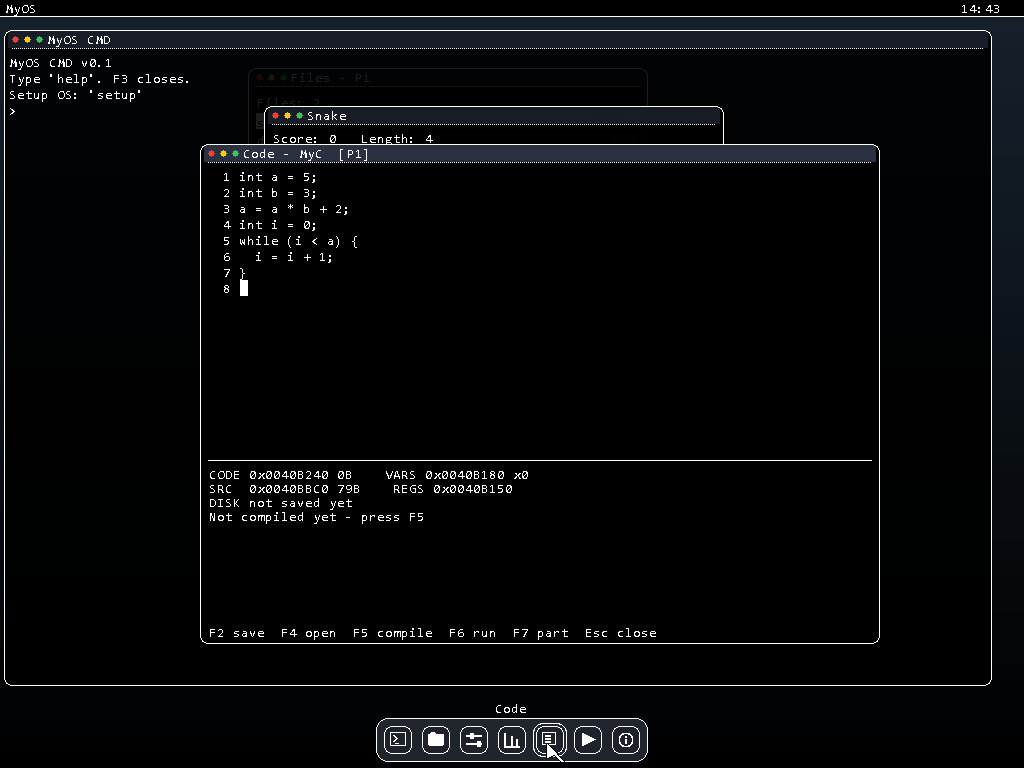
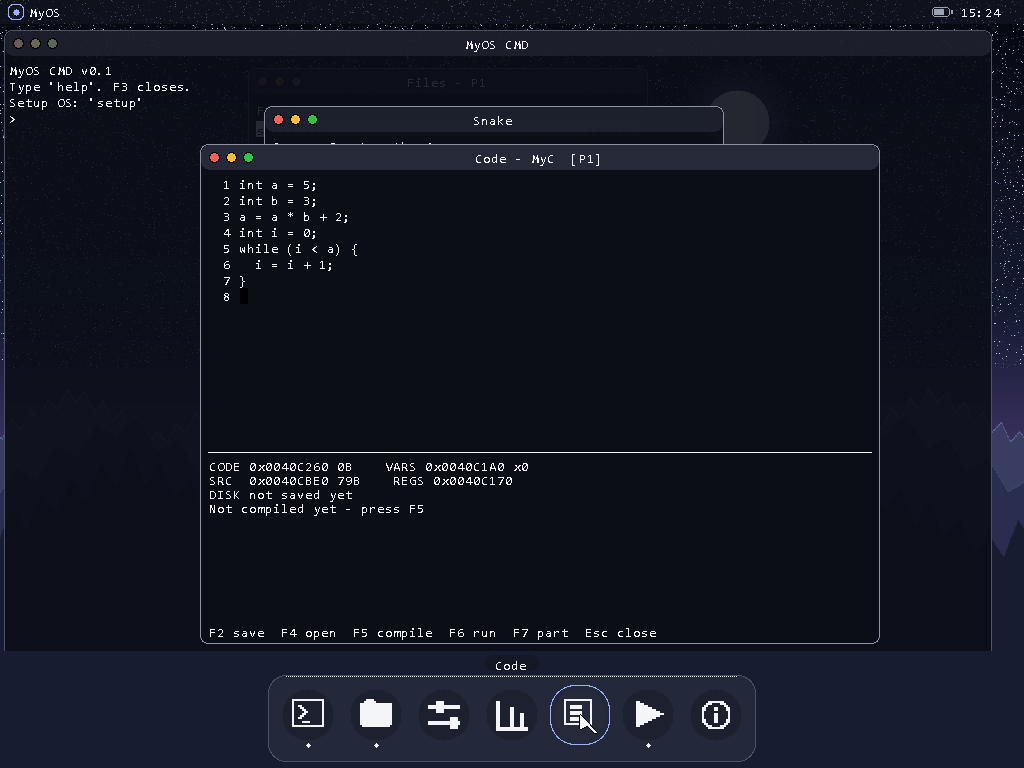
v2.1: тёмная тема «Night Ridge»: быстрый композит обоев, глобальный F2, живая змейка
- Обои «Night Ridge» (небо, звёзды, луна, три слоя гор) прежней красоты,
  но рисуются КОМПОЗИТНО: рельеф предвычисляется в таблицы по колонкам,
  тела хребтов заливаются rep stosl, небо с звёздами и луной — только
  видимые пиксели. Раньше кадр с пер-пиксельной функцией занимал секунды,
  и скриншоты ловили незавершённые кадры («съеденные» верхи окон).
- Змейка: перерисовывается только внутренность окна (поле, счёт, еда),
  полный кадр больше не нужен на каждый такт — игра идёт плавно.
- F2 (Activities) стал глобальным: обзор открывается прямо из окна любого
  приложения, прежний фокус восстанавливается при выходе из обзора.
- Док: подпись-пилюля исчезает, когда курсор уходит с дока; guard в dock_launch.
- Veil обзора без точечного дизеринга — ровная плотность.
- Убраны отладочные sys_debug-маркеры из фаз отрисовки.
- test_mouse.ps1: координаты закрытия окна Code после drag.

diff --git a/shell/s1_glass.cpp b/shell/s1_glass.cpp
@@ -130,29 +130,71 @@ void draw_round_rect(int x, int y, int w, int h, int r, unsigned int color) {
 // (небо, звёзды, луна, три слоя хребтов) — пишем прямо в видеопамять строкой:
 // сначала получаем RGB чистой функцией wallpaper_pixel, затем кодируем
 // под формат экрана (VESA мог выдать 24 или 32 бита и любой порядок каналов).
+// ===========================================================
+//  Быстрая заливка обоев: КОМПОЗИТНЫЙ рендер пейзажа.
+//  Чистая wallpaper_pixel() в каждом пикселе гоняет целочисленный
+//  рельеф «с нуля» — на 1024x768 это миллионы делений, и кадр
+//  занимает секунды (оболочка начинает «мигать» посреди отрисовки).
+//  Поэтому рисуем по частям:
+//    1) рельеф трёх хребтов считаем ОДИН РАЗ в таблицы по колонкам
+//       (rw_top: на каждый x — строка-вершина слоя);
+//    2) тела хребтов заливаем колонками через fill_rect — тут уже
+//       чистый rep stosl без математики;
+//    3) небо с звёздами и луной — только для пикселей, которые видны.
+//  Результат тот же, что wallpaper_pixel, но в разы быстрее.
+// ===========================================================
+#define RW_MAXW 1920
+static int rw_top[3][RW_MAXW];           // вершины трёх хребтов по колонкам
+static int rw_usew = 0, rw_useh = 0;     // под какой экран таблицы
+
+static void wallpaper_precompute() {
+    rw_usew = W; rw_useh = H;
+    if (rw_usew > RW_MAXW) rw_usew = RW_MAXW;
+    for (int x = 0; x < rw_usew; x++) {
+        rw_top[0][x] = ridge_at(x, 0);
+        rw_top[1][x] = ridge_at(x, 1);
+        rw_top[2][x] = ridge_at(x, 2);
+    }
+}
+
 void fill_wallpaper() {
+    if (rw_usew != W || rw_useh != H) wallpaper_precompute();
     int n = FB_BPP / 8;
-    sys_debug("W0");                          // ОТЛАДКА: фазы заливки обоев
-    for (int y = 0; y < H; y++) {
-        if (y == 128) sys_debug("W1");
-        if (y == 256) sys_debug("W2");
-        if (y == 384) sys_debug("W3");
-        if (y == 512) sys_debug("W4");
-        if (y == 640) sys_debug("W5");
-        unsigned char* row = fb + y * FB_PITCH;
+
+    // --- небо: колонками от 0 до вершины дальнего хребта (звёзды, луна) ---
+    for (int x = 0; x < W; x++) {
+        int skyend = rw_top[0][x];
+        if (skyend > H) skyend = H;
+        if (skyend <= 0) continue;
+        for (int y = 0; y < skyend; y++) {
+            unsigned int c = sky_color(y);
+            if (y < (H * 48) / 100) {
+                unsigned int st = star_color(x, y);
+                if (st) c = st;
+            }
+            unsigned int m = moon_color(x, y, c);
+            if (m) c = m;
+            unsigned char* p = fb + y * FB_PITCH + x * n;
+            unsigned int v = encode_color(c);
+            if (n == 4) *(volatile unsigned int*)p = v;
+            else { p[0] = (unsigned char)(v & 0xFF); p[1] = (unsigned char)((v >> 8) & 0xFF); p[2] = (unsigned char)((v >> 16) & 0xFF); }
+        }
+    }
+
+    // --- тела трёх хребтов: колонками (дальний первым, ближний последним) ---
+    static const unsigned int bod[3] = { RW_FAR, RW_MID, RW_NEAR };
+    static const unsigned int edg[3] = { RW_FAR_E, RW_MID_E, RW_NEAR_E };
+    for (int layer = 0; layer < 3; layer++) {
         for (int x = 0; x < W; x++) {
-            unsigned int v = encode_color(wallpaper_pixel(x, y));
-            if (n == 4) {
-                *(volatile unsigned int*)(row + x * 4) = v;
-            } else {
-                unsigned char* p = row + x * 3;
-                p[0] = (unsigned char)(v & 0xFF);
-                p[1] = (unsigned char)((v >> 8) & 0xFF);
-                p[2] = (unsigned char)((v >> 16) & 0xFF);
+            int t = rw_top[layer][x];
+            if (t < 0) t = 0;
+            if (t < H) {
+                fill_rect(x, t, 1, H - t, bod[layer]);             // тело одним stosl
+                put_pixel(x, t, edg[layer]);                        // блик силуэта
+                if (t + 1 < H) put_pixel(x, t + 1, edg[layer]);
             }
         }
     }
-    sys_debug("W6");
 }
 
 // ===========================================================================
@@ -233,10 +275,8 @@ bool g_frame_focus = true;
 void draw_window_frame(int x, int y, int w, int h, const char* title) {
     // 1. тело окна — почти чёрное стекло
     fill_glass(x, y, w, h, WIN_R, C_GLASS_BODY, GLASS);
-    sys_debug("FB");                         // ОТЛАДКА: фазы рамки окна
     // 2. шапка — светлее и прозрачнее тела
     fill_glass(x + 1, y + 1, w - 2, TITLE_H - 1, WIN_R - 1, C_GLASS_TITLE, GLASS_TITLE);
-    sys_debug("FH");
     // 3. контур: в фокусе светлый, вне фокуса тусклый
     unsigned int edge = g_frame_focus ? C_EDGE_F : C_EDGE;
     draw_round_rect(x, y, w, h, WIN_R, edge);
@@ -264,7 +304,6 @@ void draw_window_frame(int x, int y, int w, int h, const char* title) {
         dither_over(x + 4, y + h + 1, w - 8, 1, C_BLACK, 6);
         dither_over(x + 8, y + h + 2, w - 16, 1, C_BLACK, 3);
     }
-    sys_debug("FS");
 }
 
 // Окно консоли — просто частный случай общей функции

diff --git a/shell/s7_game.cpp b/shell/s7_game.cpp
@@ -72,17 +72,20 @@ void game_open() {
     draw_desktop();
 }
 
-// Нарисовать окно игры целиком
-void draw_game() {
-    game_layout();
-    draw_window_frame(gwx, gwy, gww, gwh, "Snake");
+// Поле игры (счёт, рамка поля, еда и змейка) — без рамки окна.
+// Используется и полным кадром (draw_game), и быстрым тик-перерисовщиком:
+// игра шагает каждые ~140 мс, и полный кадр (обои пер-пиксельно + все окна)
+// на каждый шаг — это секунды простоя на перерисовку. Окно не двигается,
+// поэтому достаточно перерисовать его внутренность.
+static void draw_game_field() {
     int tx = gwx + 10, ty = gwy + TITLE_H + 6;
     char sc[48]; int k = sk_str(sc, 0, "Score: "); k = sk_num(sc, k, (unsigned int)gscore);
     k = sk_str(sc, k, "   Length: "); k = sk_num(sc, k, (unsigned int)gslen);
     sc[k] = 0;
+    // строка счёта очищается «стеклом тела окна» (alpha 256 = плотно):
+    fill_glass(gwx + 8, ty - 2, gww - 16, 16, 0, C_GLASS_BODY, 256);
     draw_text(tx, ty, sc, TEXT_COL);
     fill_rect(gfx, gfy, gcols * G_CELL, grows * G_CELL, C_BLACK);   // чистое поле
-    sys_debug("G1");                         // ОТЛАДКА: фазы игры
     draw_rect(gfx - 1, gfy - 1, gcols * G_CELL + 2, grows * G_CELL + 2, TEXT_COL);
     fill_rect(gfx + gfood_x * G_CELL + 3, gfy + gfood_y * G_CELL + 3,   // еда
               G_CELL - 6, G_CELL - 6, TEXT_COL);
@@ -99,13 +102,21 @@ void draw_game() {
         draw_text(px + (pw - 9 * 8) / 2, py + 4, "GAME OVER", TEXT_COL);
         draw_text(px + (pw - 28 * 8) / 2, py + 22, "Enter - restart  Esc - exit", TEXT_COL);
     } else {
+        fill_glass(gwx + 8, gwy + gwh - 22, gww - 16, 16, 0, C_GLASS_BODY, 256);
         draw_text(tx, gwy + gwh - 20, "Arrows - move   Esc - exit", TEXT_COL);
     }
-    sys_debug("G2");
 }
 
-// Перерисовать поле игры, не забыв про курсор (он может висеть над окном)
-void game_redraw() { cursor_hide(); draw_desktop(); cursor_show(); }
+// Нарисовать окно игры целиком
+void draw_game() {
+    game_layout();
+    draw_window_frame(gwx, gwy, gww, gwh, "Snake");
+    draw_game_field();
+}
+
+// Перерисовать только внутренность окна игры (поле, счёт, подсказка):
+// на каждый такт полный кадр не нужен — обои уже под окном не меняются.
+void game_redraw() { cursor_hide(); draw_game_field(); cursor_show(); }
 
 // Шаг игры (вызывается из главного цикла, когда нажатий нет)
 void game_tick() {

diff --git a/shell/s11_compositor.cpp b/shell/s11_compositor.cpp
@@ -78,17 +78,11 @@ void draw_desktop() {
     comp_full = true;                        // рисуем полный кадр — стекло можно
     fill_wallpaper();
     draw_menubar();
-    sys_debug("M1");                         // ОТЛАДКА: после меню-бара
     for (int z = 1; z <= win_ztop; z++)
         for (int a = 0; a < APP_N; a++)
-            if (app_is_open(a) && win_z[a] == z) {
-                sys_debug("A>");             // ОТЛАДКА: каждое окно
-                draw_app(a);
-                sys_debug("A<");
-            }
+            if (app_is_open(a) && win_z[a] == z) draw_app(a);
     draw_dock();
     comp_full = false;
-    sys_debug("DK");                         // ОТЛАДКА: конец кадра
 }
 
 // Какая иконка дока под точкой (x,y); -1 — ни одна
@@ -106,6 +100,7 @@ int dock_hit(int x, int y) {
 // Запустить приложение по номеру иконки дока. Если окно уже открыто —
 // просто поднять его (как в настоящей док-панели), а не открывать заново.
 void dock_launch(int i) {
+    if (i < 0 || i >= DOCK_N) return;            // ничего не выбрано (курсор ушёл с дока)
     int a = i;                                   // номера иконок = номера приложений
     if (a >= 0 && a < APP_N && app_is_open(a)) { win_raise(a); draw_desktop(); return; }
     if      (i == 0) cmd_open();
@@ -191,6 +186,7 @@ void mouse_handle() {
     // экран мигать и тормозить (окна до дока всё равно не достают).
     int hov = dock_hit(mouse_x, mouse_y);
     if (hov >= 0 && hov != dock_sel) { dock_sel = hov; draw_dock_area(); }
+    else if (hov < 0 && dock_sel >= 0) { dock_sel = -1; draw_dock_area(); }  // курсор ушёл — подсветку/подпись снять
 
     if (!(press & 1)) return;                  // дальше — только щелчок левой кнопкой
 

diff --git a/shell/s13_overview.cpp b/shell/s13_overview.cpp
@@ -64,8 +64,7 @@ void draw_overview() {
     comp_full = true;
     fill_wallpaper();                                    // свежие обои под кадром
     draw_menubar();
-    fill_glass(0, MB_H, W, H - MB_H, 0, C_BLACK, 130);   // «занавес» поверх обоев
-    dither_over(0, MB_H, W, H - MB_H, C_BLACK, 5);       // и чуть плотнее точечно
+    fill_glass(0, MB_H, W, H - MB_H, 0, C_BLACK, 150);   // «занавес» поверх обоев
 
     // --- строка поиска (стеклянная «пилюля» с лупой) ---
     int sx = (W - ov_sw) / 2;
@@ -115,8 +114,12 @@ void draw_overview() {
 }
 
 // Открыть/закрыть обзор. При входе клавиатура переносится на обзор
-// (win_focus = -1 «рабочий стол»), при выходе — честно перерисовываем стол.
+// (win_focus = -1 «рабочий стол»), прежний фокус запоминается и
+// восстанавливается при выходе (игра продолжает жить после F2).
+static int ov_prev_focus = -1;
+
 void overview_open() {
+    ov_prev_focus = win_focus;               // кому вернуть фокус
     overview_active = true;
     ov_sel = 0; ov_qlen = 0; ov_query[0] = 0;
     win_focus = -1;
@@ -125,7 +128,10 @@ void overview_open() {
 
 void overview_close() {
     overview_active = false;
-    win_focus = -1;
+    if (ov_prev_focus >= 0 && app_is_open(ov_prev_focus))   // окно ещё живо?
+        win_focus = ov_prev_focus;
+    else
+        win_focus = -1;
     draw_desktop();
 }
 

diff --git a/shell/s3_console.cpp b/shell/s3_console.cpp
@@ -132,7 +132,6 @@ void cmd_print(const char* s) { while (*s) cmd_putchar(*s++); }
 // Нарисовать окно консоли заново по теневой копии текста
 void console_repaint() {
     draw_console_window();
-    sys_debug("C1");                         // ОТЛАДКА: фазы консоли
     for (int r = 0; r < ROWS && r < CG_ROWS; r++) {
         int y = TXT_Y + r * 16;
         for (int i = 0; i < COLS && i < CG_COLS; i++) {
@@ -140,7 +139,6 @@ void console_repaint() {
             if (c && c != ' ') draw_char(TXT_X + i * 8, y, c, TEXT_COL);
         }
     }
-    sys_debug("C2");
 }
 
 // Стереть символ слева от курсора (Backspace) — вернуть «стекло» на место

diff --git a/shell/s12_main.cpp b/shell/s12_main.cpp
@@ -72,6 +72,12 @@ extern "C" __attribute__((section(".text.entry"))) void shell_main() {
             cursor_show();
             continue;
         }
+        if (sc == SC_F2) {                           // F2 — Activities глобально:
+            if (overview_active) overview_close();   //   работает из любого окна,
+            else overview_open();                    //   клавиатура grab-ается обзором
+            cursor_show();
+            continue;
+        }
         if (overview_active) {                       // экран Activities ловит всё
             overview_handle_key(sc);
             cursor_show();

diff --git a/shell/s5_desktop.cpp b/shell/s5_desktop.cpp
@@ -157,6 +157,7 @@ void draw_dock_icon(int i) {
 // Подпись выбранного приложения — стеклянная «таблетка» над доком
 void draw_dock_label() {
     erase_to_wallpaper(0, DOCK_Y - 22, W, 20);             // стереть старую подпись
+    if (dock_sel < 0) return;                              // курсор вне дока — подписи нет
     const char* s = dock_names[dock_sel];
     int n = 0; while (s[n]) n++;                           // длина названия
     int wpx = n * 8 + 24;                                  // ширина таблетки
